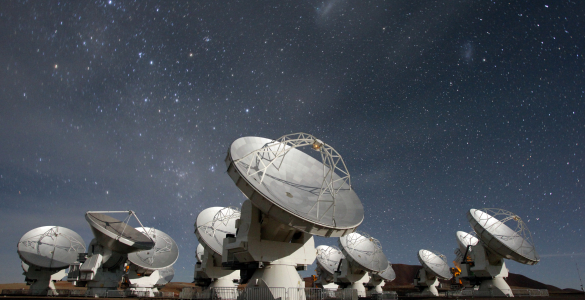
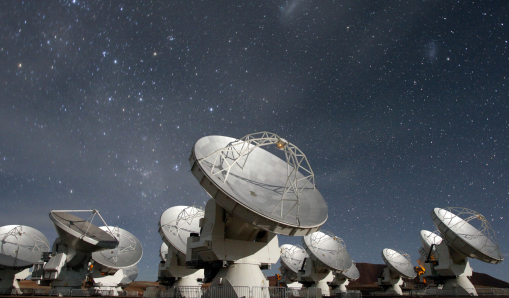
image display small screens

diff --git a/code.html b/code.html
@@ -72,7 +72,7 @@
 									<h3>Programming</h3>
 									<ul>
 										<li><a href="https://learn.astropy.org/" target="_blank">Astropy tutorials</a></li>
-										<li><a href="https://github.com/jbchampagne/pythontutorials" target="_blank">Jackie Champagne's Python tutorials</a></li>
+										<li><a href="https://github.com/jbchampagne/pythontutorials" target="_blank">Jackie Champagne's Python tutorials (introductory)</a></li>
 										<li><a href="https://www.astrowhit.com/astronomy-research-tutorial-repository" target="_blank">Kate Whitaker's Astronomy Python tutorials</a></li>
 										<li><a href="https://prappleizer.github.io" target="_blank">Python for Astronomers</a></li>
 										<li><a href="https://tingyuansen.github.io/coding_essential_for_astronomers/" target="_blank">Yuan-Sen Ting's Coding Essentials for Astronomers</a></li>

diff --git a/assets/css/main.css b/assets/css/main.css
@@ -2567,11 +2567,19 @@ input, select, textarea {
 			.image.fit img {
 				width: 100%;
 			}
+
+			.image.fit.fixed{
+				display: block;
+				margin: 0 0 2em 0;
+				height: 68%;
+				overflow: hidden;
+				position: relative;
+			}
 			.image.fit.fixed img {
-				max-height: 30%;
+				max-height: 100%;
 				object-fit:cover;
 				overflow: hidden;
-				bottom: 2em;
+				position: relative;
 			}
 
 			.image.fit .capbr{
@@ -3877,6 +3885,14 @@ input, select, textarea {
 		float: none;
 		margin-bottom: 3em;
 		}
+
+		.image.fit.fixed{
+				display: block;
+				margin: 0 0 2em 0;
+				height: 80%;
+				overflow: hidden;
+				position: relative;
+			}
 
 		/* Basic */
 

diff --git a/research.html b/research.html
@@ -84,7 +84,6 @@
 										<div class="col-4 col-12-small"><span class="image fit fixed"><img src="images/keck.jpg" alt="" loading="lazy" /><p class="capbr">KECK (keckobservatory.org) </p></span></div>
 									</div>
 								</div>
-								<br>
 								<hr />
 
 							</section>
